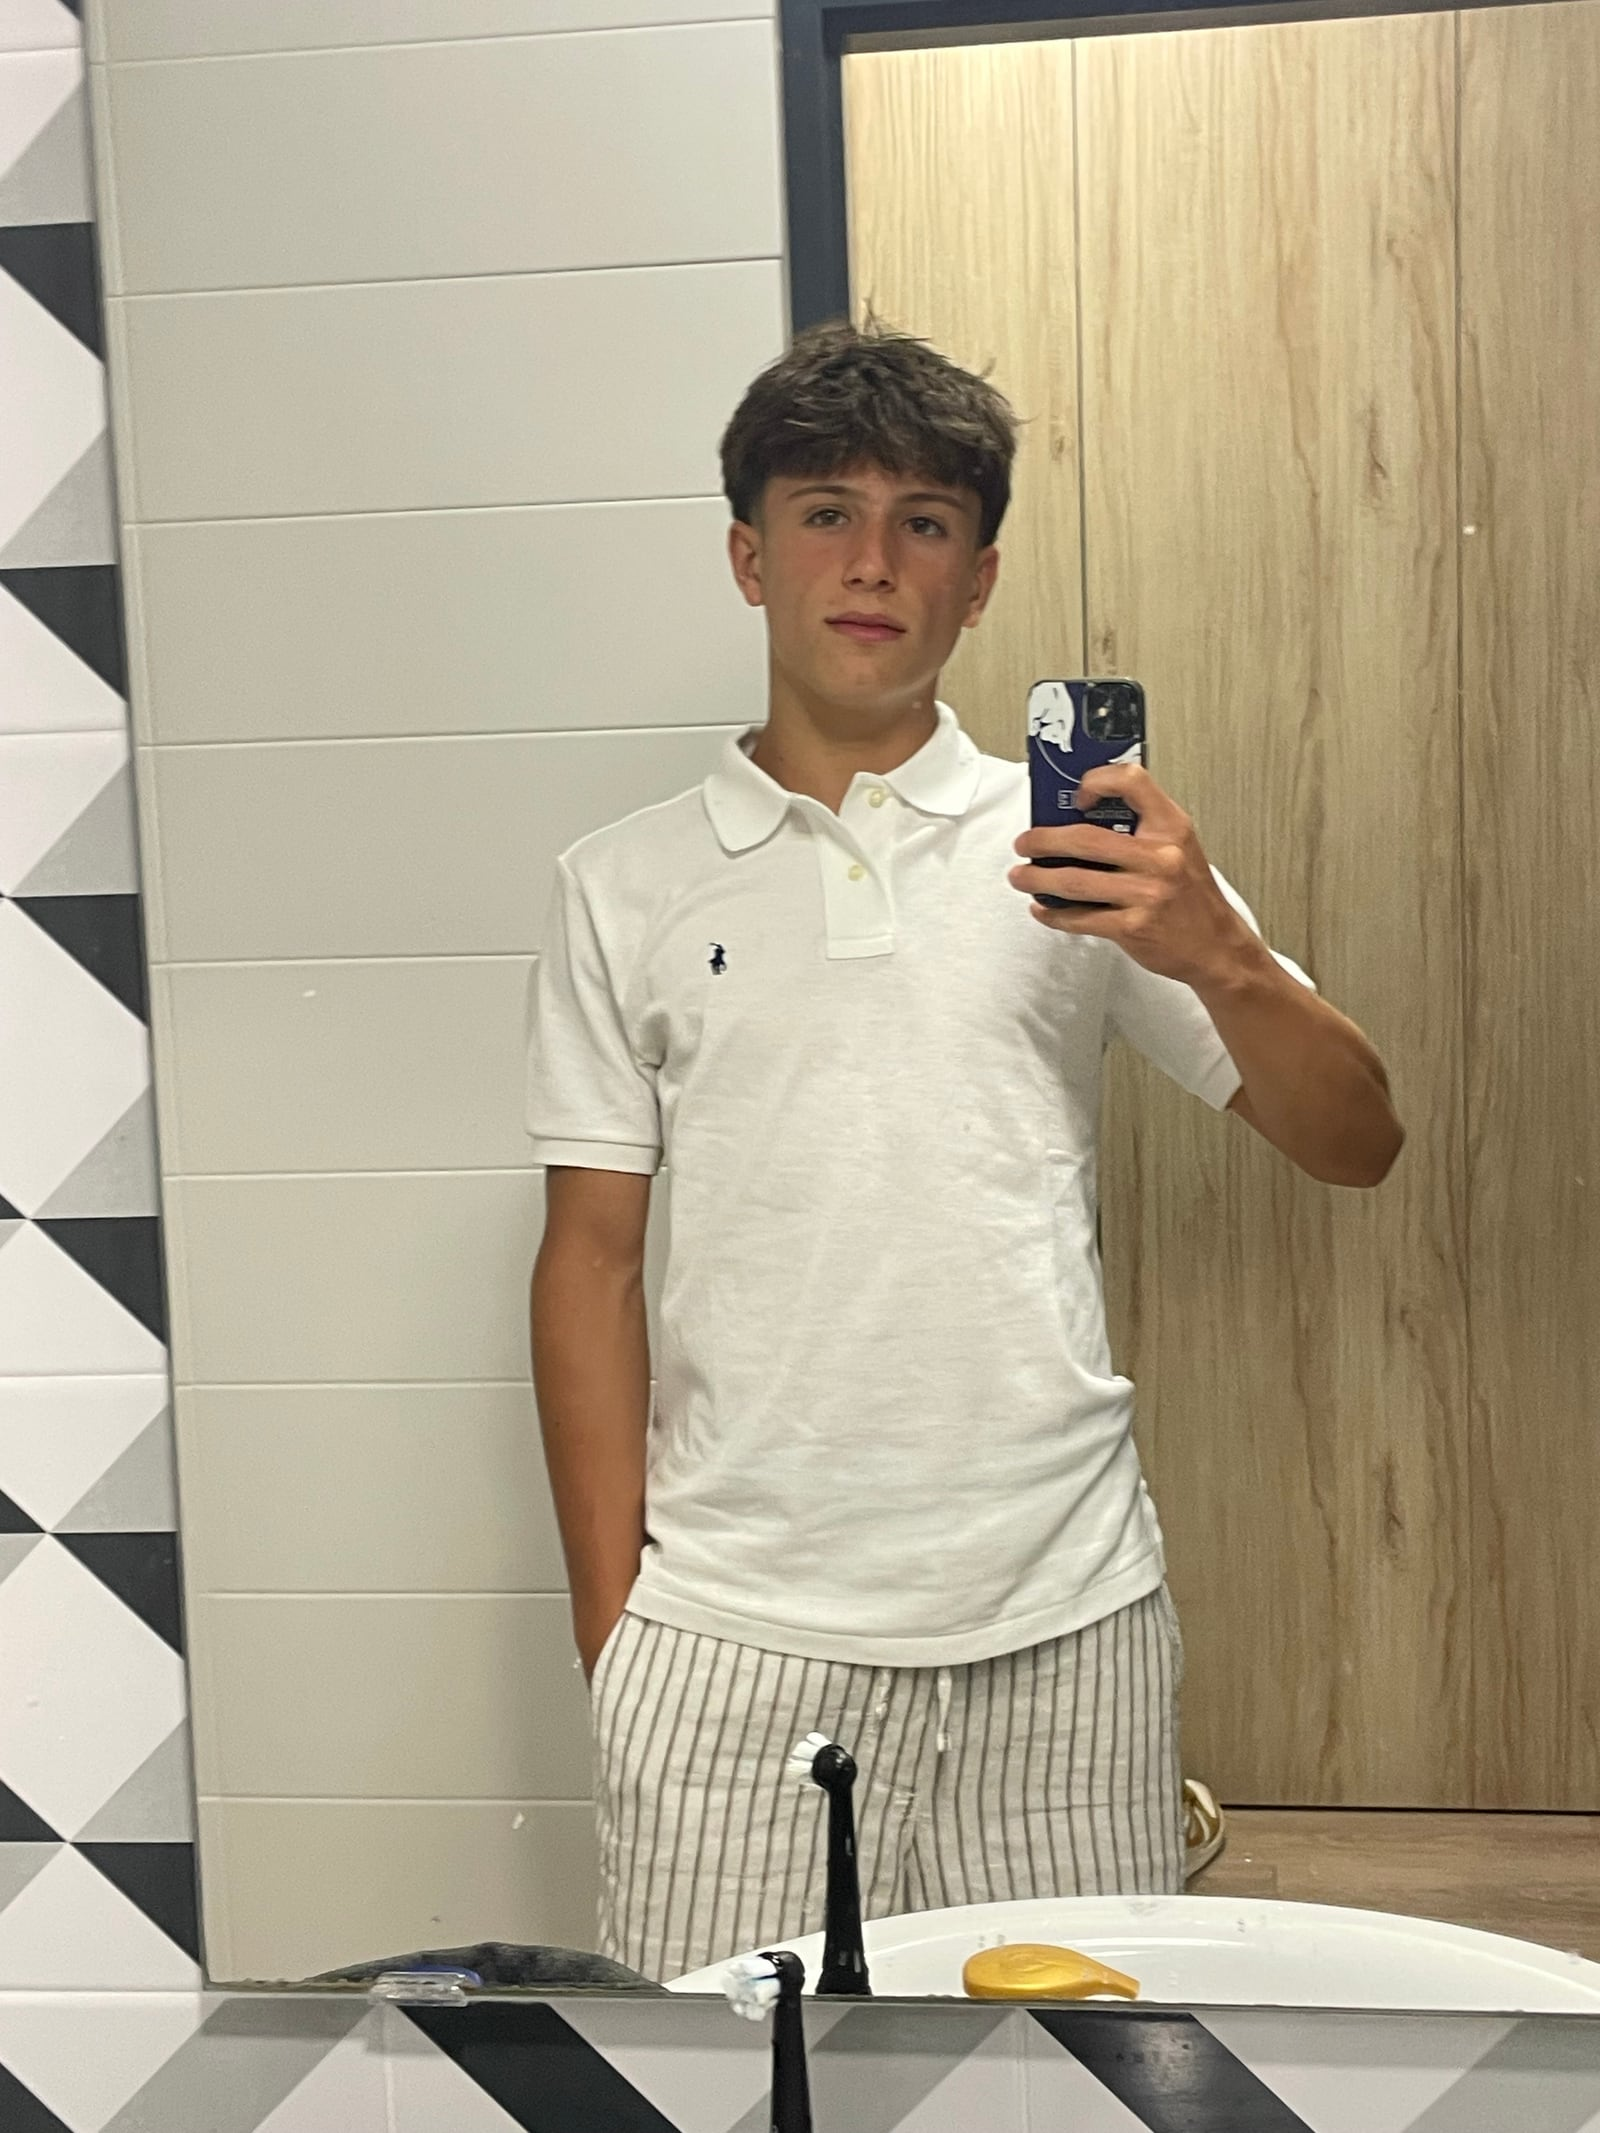
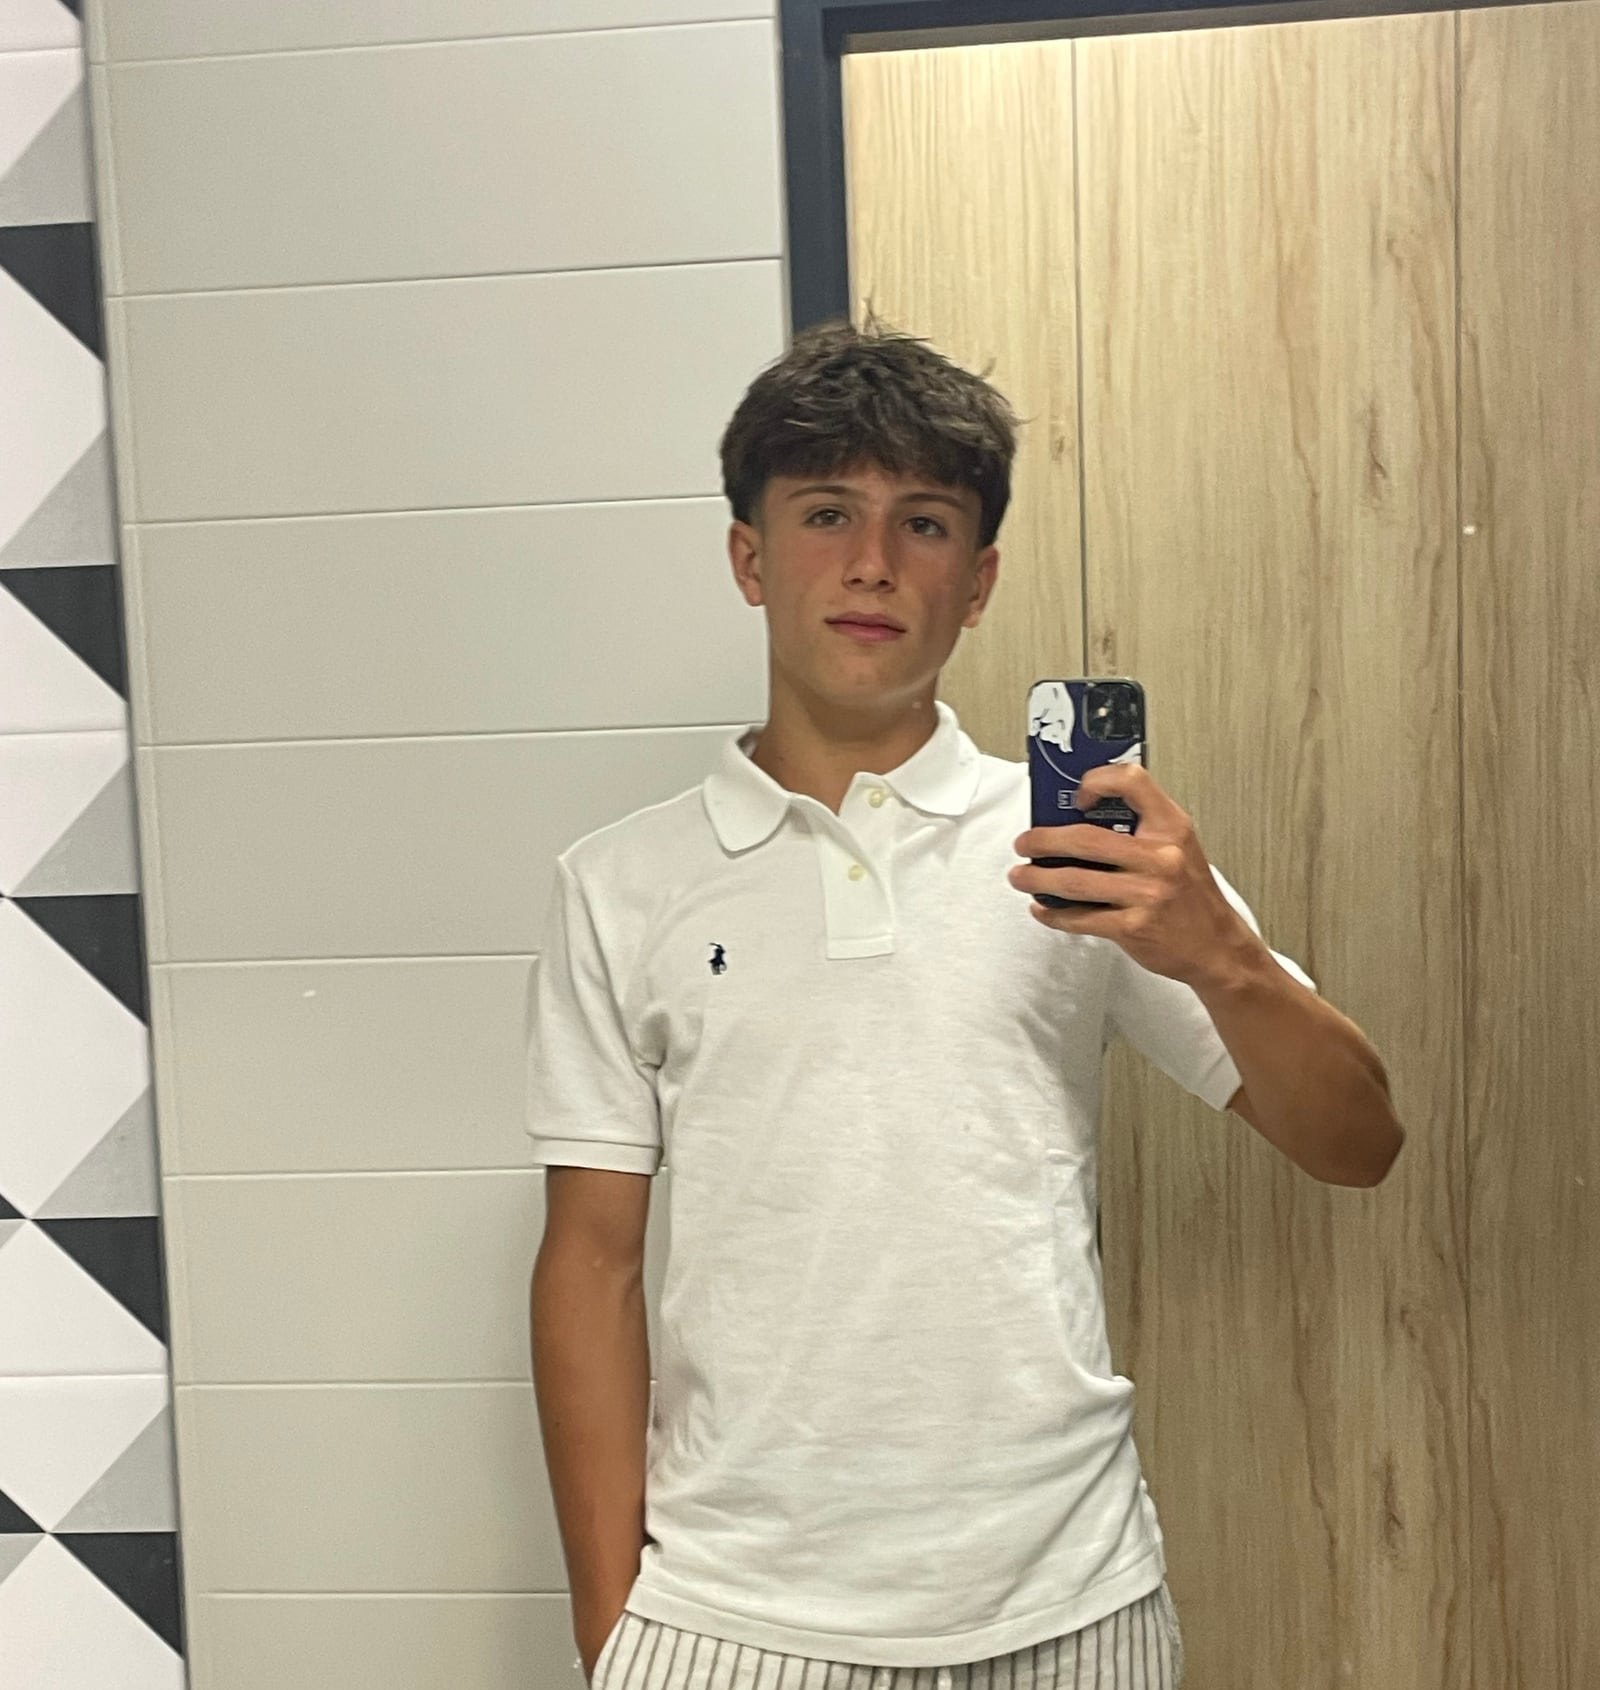
Il ritratto si ferma prima dello spazzolino
La foto arrivava fino al lavandino, e in basso si vedeva lo spazzolino
elettrico. Ritagliata sul file (1600x2133 -> 1600x1690) e non solo con il
CSS: il riquadro e' quadrato sul computer e 4:5 sul telefono, e togliendolo
dall'immagine non puo' ricomparire in nessuna delle due inquadrature.

Aggiornate le dimensioni nell'<img> e aggiunto ?v=2 all'indirizzo, cosi'
chi aveva gia' la foto vecchia in cache scarica quella nuova.

diff --git a/index.html b/index.html
@@ -176,7 +176,7 @@ try{
         <p data-l="it">Di solito parto da un problema fisico vero e cerco di arrivare a qualcosa che gira.</p>
       </div>
       <figure class="portrait">
-        <span class="frame"><img src="img/ritratto.jpeg" width="1600" height="2133" alt="Federico Fassio" loading="lazy" decoding="async"></span>
+        <span class="frame"><img src="img/ritratto.jpeg?v=2" width="1600" height="1690" alt="Federico Fassio" loading="lazy" decoding="async"></span>
       </figure>
     </div>
   </div></section>
